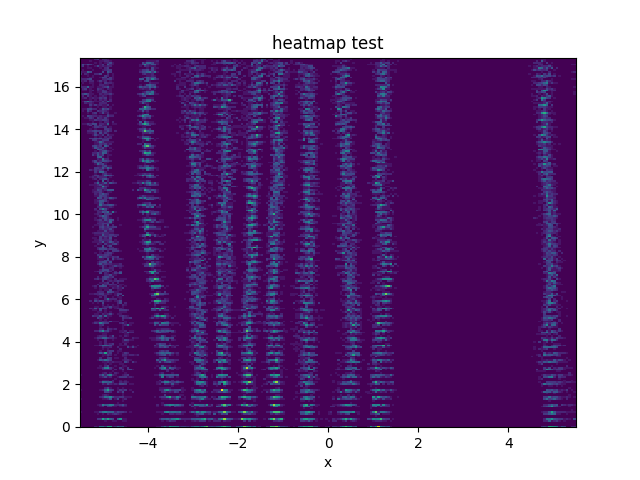
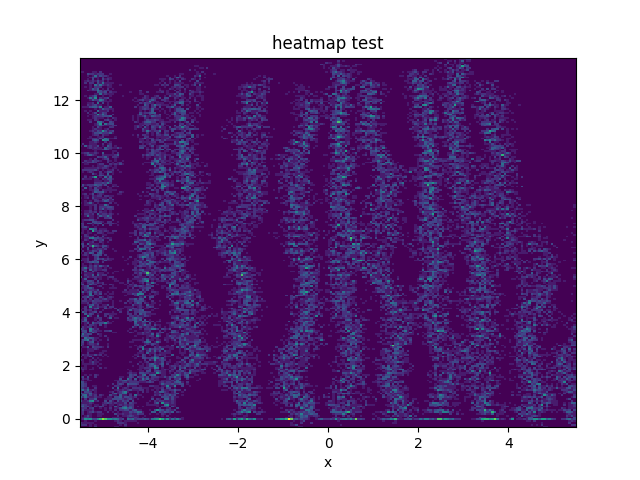
updated data

Changed region(s): [[0.0625, 0.125, 0.9062, 0.9062]]

diff --git a/Engine.py b/Engine.py
@@ -14,7 +14,7 @@ parameters.setPairRadius(0.3)
 parameters.setPairPotentialStrength(10**3)
 parameters.setPairRadiusEqualibrium(0.3)
 parameters.setPairMaximumRadius(0.1)
-parameters.setForcePull(50)
+parameters.setForcePull(10)
 parameters.setPeriodicAmplitude(1)
 parameters.setGamma(0.5)
 parameters.setKBT(1)
